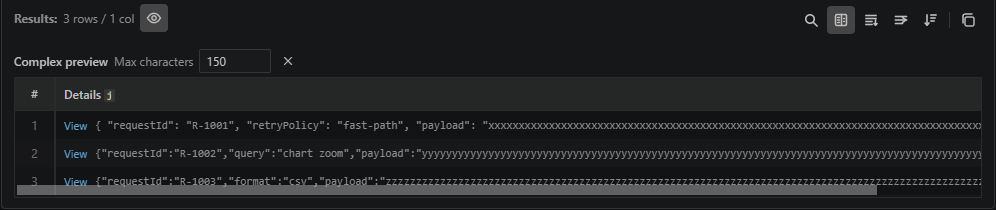
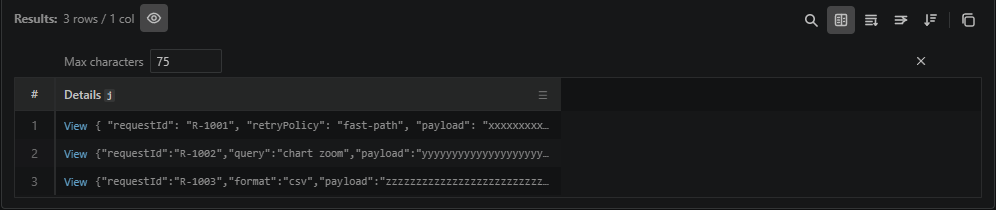
Add tutorial content for result column datatypes and multiple result sets
- Created a new image for result column datatypes and added a tutorial explaining the datatype glyphs in column headers.
- Added a tutorial on handling multiple result sets from a single query, including a result picker feature.
- Introduced a new KQLX fixture showcasing a multi-statement query with multiple results for testing purposes.

diff --git a/src/webview/components/kw-data-table.styles.ts b/src/webview/components/kw-data-table.styles.ts
@@ -10,7 +10,7 @@ export const styles = css`
 		.hbar{display:flex;align-items:center;justify-content:space-between;padding:4px 0 11px 0;font-size:12px;color:var(--vscode-descriptionForeground);background:transparent;flex-shrink:0;gap:8px;border-top:none;border-bottom:none;margin:0}
 		.hinfo{display:flex;align-items:center;gap:6px;flex-shrink:1;min-width:0;overflow:hidden;text-overflow:ellipsis;white-space:nowrap;position:relative;top:-2px}.hinfo-text{display:inline-block;min-width:0;overflow:hidden;text-overflow:ellipsis;white-space:nowrap}.et{opacity:.7}
 		.result-set-picker{min-width:96px;max-width:240px;height:24px;padding:1px 22px 1px 6px;border:1px solid var(--vscode-dropdown-border,var(--vscode-input-border));border-radius:2px;background:var(--vscode-dropdown-background,var(--vscode-input-background));color:var(--vscode-dropdown-foreground,var(--vscode-input-foreground));font:inherit;outline:none}.result-set-picker:focus{border-color:var(--vscode-focusBorder)}
-		.tb{display:inline-flex;gap:2px;align-items:center;justify-content:flex-end;flex:1 1 auto;min-width:0;max-width:100%;overflow-x:auto;overflow-y:hidden}
+		.tb{display:inline-flex;gap:2px;align-items:center;justify-content:flex-start;flex:1 1 auto;min-width:0;max-width:100%;overflow-x:auto;overflow-y:hidden}.tb>:first-child{margin-left:auto}
 		.sep{width:1px;height:16px;background:var(--vscode-input-border, rgba(128,128,128,0.3));margin:0 2px}
 		.tbtn{background:transparent;border:1px solid transparent;color:var(--vscode-foreground);cursor:pointer;padding:0;width:28px;height:28px;border-radius:4px;display:inline-flex;align-items:center;justify-content:center;line-height:0;outline:none;flex:0 0 28px}
 		.tbtn:hover{background:var(--vscode-list-hoverBackground)}.tbtn.act{color:var(--vscode-foreground);background:var(--vscode-toolbar-activeBackground, var(--vscode-actionBar-toggledBackground, rgba(128, 128, 128, 0.25)))}.tbtn svg{display:block}
@@ -19,7 +19,7 @@ export const styles = css`
 		.tbtn.tbtn-text{width:auto;min-width:auto;padding:0 8px;gap:4px;line-height:1.4}
 		.hidden-hint{font-size:11px;color:var(--vscode-disabledForeground,var(--vscode-descriptionForeground));font-style:italic;cursor:pointer;white-space:nowrap;overflow:hidden;text-overflow:ellipsis;min-width:0;flex-shrink:999}
 		.hidden-hint:hover{color:var(--vscode-foreground);text-decoration:underline}
-		.sbar.complex-preview-controls{justify-content:flex-start;min-width:0;background:transparent;padding-left:50px;padding-right:50px}.complex-preview-label{font-weight:600;color:var(--vscode-foreground);white-space:nowrap}.complex-preview-length-label{color:var(--vscode-descriptionForeground);white-space:nowrap}.complex-preview-length{width:72px;height:24px;padding:2px 6px;border:1px solid var(--vscode-input-border);border-radius:2px;background:var(--vscode-input-background);color:var(--vscode-input-foreground);font:inherit;outline:none}.complex-preview-length:focus{border-color:var(--vscode-focusBorder)}
+		.sbar.complex-preview-controls{justify-content:flex-start;min-width:0;background:transparent;padding-left:50px;padding-right:50px}.complex-preview-length-label{color:var(--vscode-descriptionForeground);white-space:nowrap}.complex-preview-length{width:72px;height:24px;padding:2px 6px;border:1px solid var(--vscode-input-border);border-radius:2px;background:var(--vscode-input-background);color:var(--vscode-input-foreground);font:inherit;outline:none}.complex-preview-length:focus{border-color:var(--vscode-focusBorder)}
 
 		/* Search bar */
 		.sbar{display:flex;align-items:center;gap:6px;padding:4px 0;font-size:12px;background:var(--vscode-editor-background);flex-shrink:0}
@@ -105,7 +105,7 @@ export const styles = css`
 		.compact th,.compact td{padding:4px 6px;font-size:11px;height:21px}.compact .hbar{padding:7px 0;font-size:11px}
 		.compact .obj-content{gap:6px}.compact .obj-preview{font-size:10px}
 		.compact .rn{font-size:10px;width:32px;min-width:32px;max-width:32px;padding:4px 2px}.compact .rn-h{width:32px;min-width:32px;max-width:32px;padding:4px 2px}
-		@container (max-width:420px){.hbar{align-items:stretch;flex-direction:column;gap:3px}.hinfo{width:100%;top:0}.tb{width:100%}.sbar.complex-preview-controls{padding:2px 0}.complex-preview-label{display:none}}
+		@container (max-width:420px){.hbar{align-items:stretch;flex-direction:column;gap:3px}.hinfo{width:100%;top:0}.tb{width:100%}.sbar.complex-preview-controls{padding:2px 0}}
 		@container (max-width:240px){.complex-preview-length-label{position:absolute;width:1px;height:1px;padding:0;margin:-1px;overflow:hidden;clip:rect(0,0,0,0);white-space:nowrap;border:0}.complex-preview-length{width:64px}}
 		@media (forced-colors:active){.type-glyph{border-color:ButtonText;background:ButtonFace;color:ButtonText}}
 

diff --git a/src/webview/components/kw-data-table.ts b/src/webview/components/kw-data-table.ts
@@ -811,8 +811,7 @@ export class KwDataTable extends LitElement {
 
 	private _computeColumnWidths(): number[] {
 		return this.columns.map((col, ci) => {
-			const isComplexPreviewColumn = this._complexPreviewEnabled
-				&& this.rows.some(row => Array.isArray(row) && isViewableObjectCell(row[ci]));
+			const isComplexPreviewColumn = this._isComplexPreviewColumn(ci);
 			const complexColumnMaxWidth = isComplexPreviewColumn ? this._complexPreviewColumnMaxWidth() : MAX_COL_WIDTH;
 			const maxWidth = isComplexPreviewColumn ? complexColumnMaxWidth : MAX_COL_WIDTH;
 			const headerLabel = isColumnFiltered(ci, this._columnFilters) ? `${col.name} (filtered)` : col.name;
@@ -831,14 +830,20 @@ export class KwDataTable extends LitElement {
 		});
 	}
 
+	private _isComplexPreviewColumn(columnIndex: number): boolean {
+		return this._complexPreviewEnabled
+			&& this.rows.some(row => Array.isArray(row) && isViewableObjectCell(row[columnIndex]));
+	}
+
 	private _complexPreviewTextMaxWidth(): number {
 		return Math.max(0, this._complexPreviewColumnMaxWidth() - OBJECT_CELL_CHROME_WIDTH_PX);
 	}
 
 	private _complexPreviewColumnMaxWidth(): number {
+		const previewFontSize = (this.options.compact ?? false) ? 10 : 11;
 		return Math.max(
 			MIN_COL_WIDTH,
-			Math.ceil(this._measureTextWidth('M'.repeat(this._complexCellMaxCharacters)) + OBJECT_CELL_CHROME_WIDTH_PX),
+			Math.ceil(this._measureTextWidth('M'.repeat(this._complexCellMaxCharacters), previewFontSize) + OBJECT_CELL_CHROME_WIDTH_PX),
 		);
 	}
 
@@ -876,7 +881,7 @@ export class KwDataTable extends LitElement {
 		return this._measureTextWidth(text) + 18;
 	}
 
-	private _measureTextWidth(text: string): number {
+	private _measureTextWidth(text: string, fontSize = (this.options.compact ?? false) ? 11 : 12): number {
 		const canvas = this._measureCanvas ?? (this._measureCanvas = document.createElement('canvas'));
 		const ctx = canvas.getContext('2d');
 		const measuredText = text.slice(0, 500);
@@ -884,7 +889,6 @@ export class KwDataTable extends LitElement {
 		const cs = getComputedStyle(this);
 		const fontFamilyVar = cs.getPropertyValue('--vscode-editor-font-family').trim();
 		const fontFamily = fontFamilyVar || cs.fontFamily || 'Segoe WPC, Segoe UI, sans-serif';
-		const fontSize = (this.options.compact ?? false) ? 11 : 12;
 		ctx.font = `400 ${fontSize}px ${fontFamily}`;
 		return ctx.measureText(measuredText).width;
 	}
@@ -909,22 +913,27 @@ export class KwDataTable extends LitElement {
 			return { widths: base, tableWidth: ROW_NUMBER_WIDTH + baseTotal };
 		}
 
-		// Fit mode: everything can fit. Keep fit widths and let one column absorb remaining space.
+		// Fit mode: everything can fit. Let one uncapped column absorb remaining space.
 		const widths = [...base];
 		const extra = available - baseTotal;
+		let filledViewport = false;
 		if (extra > 0) {
-			let flexIdx = 0;
-			let maxW = widths[0] ?? 0;
-			for (let i = 1; i < widths.length; i++) {
-				if (widths[i] >= maxW) {
+			let flexIdx = -1;
+			let maxW = -1;
+			for (let i = 0; i < widths.length; i++) {
+				if (!this._isComplexPreviewColumn(i) && widths[i] >= maxW) {
 					maxW = widths[i];
 					flexIdx = i;
 				}
 			}
-			const scrollbarSlack = 2;
-			widths[flexIdx] += Math.max(0, extra - scrollbarSlack);
+			if (flexIdx >= 0) {
+				const scrollbarSlack = 2;
+				widths[flexIdx] += Math.max(0, extra - scrollbarSlack);
+				filledViewport = true;
+			}
 		}
-		const tableWidth = Math.max(ROW_NUMBER_WIDTH + widths.reduce((sum, w) => sum + w, 0), viewport - 1);
+		const contentWidth = ROW_NUMBER_WIDTH + widths.reduce((sum, w) => sum + w, 0);
+		const tableWidth = filledViewport ? Math.max(contentWidth, viewport - 1) : contentWidth;
 		return { widths, tableWidth };
 	}
 
@@ -1165,7 +1174,6 @@ export class KwDataTable extends LitElement {
 
 	private _renderComplexPreviewControls(): TemplateResult {
 		return html`<div class="sbar complex-preview-controls" id="complex-preview-controls" data-testid="complex-preview-controls">
-			<span class="complex-preview-label">Complex preview</span>
 			<label class="complex-preview-length-label" for="complex-preview-length">Max characters</label>
 			<input id="complex-preview-length" class="complex-preview-length" data-testid="complex-preview-length"
 				aria-label="Maximum complex column characters"

diff --git a/tests/webview/kw-data-table-visibility.test.ts b/tests/webview/kw-data-table-visibility.test.ts
@@ -180,6 +180,9 @@ describe('kw-data-table visibility lifecycle', () => {
 		expect(toggle).toBeTruthy();
 		expect(toggle?.querySelector('svg[data-icon="preview-pane"] rect')).toBeTruthy();
 		expect(toggle?.querySelector('circle')).toBeNull();
+		const toolbar = table.shadowRoot?.querySelector('.tb') as Element;
+		expect(getComputedStyle(toolbar).justifyContent).toBe('flex-start');
+		expect(getComputedStyle(toolbar.firstElementChild as Element).marginLeft).toBe('auto');
 		expect(toggle?.getAttribute('aria-pressed')).toBe('false');
 		expect(table.shadowRoot?.querySelector('[data-testid="complex-preview-controls"]')).toBeNull();
 		expect(table.shadowRoot?.querySelectorAll('.obj-link')).toHaveLength(1);
@@ -240,6 +243,8 @@ describe('kw-data-table visibility lifecycle', () => {
 		expect(getComputedStyle(controls).backgroundColor).toBe('transparent');
 		expect(getComputedStyle(controls).paddingLeft).toBe('50px');
 		expect(getComputedStyle(controls).paddingRight).toBe('50px');
+		expect(controls.querySelector('.complex-preview-label')).toBeNull();
+		expect(controls.textContent?.trim()).toBe('Max characters');
 		const close = table.shadowRoot?.querySelector('[data-testid="complex-preview-close"]') as Element;
 		expect(getComputedStyle(close).marginLeft).toBe('auto');
 		const input = table.shadowRoot?.querySelector<HTMLInputElement>('[data-testid="complex-preview-length"]')!;
@@ -269,6 +274,8 @@ describe('kw-data-table visibility lifecycle', () => {
 		const defaultComplexWidth = (table as any)._columnWidths[0];
 		expect(defaultComplexWidth).toBe(577);
 		expect((table as any)._columnWidths[0]).toBeGreaterThan(widthBefore);
+		(table as any)._vScrollCtrl.viewportW = 1000;
+		expect((table as any)._layoutColumns().widths[0]).toBe(defaultComplexWidth);
 		const input = table.shadowRoot?.querySelector<HTMLInputElement>('[data-testid="complex-preview-length"]')!;
 		input.value = '150';
 		input.dispatchEvent(new Event('change', { bubbles: true, composed: true }));

diff --git a/tests/webview/host/tutorialCatalog.test.ts b/tests/webview/host/tutorialCatalog.test.ts
@@ -97,10 +97,14 @@ describe('tutorial catalog validation', () => {
 		expect(byId.get('results-search-json')?.minExtensionVersion).toBe('5.1.0');
 		expect(byId.get('results-complex-preview')?.minExtensionVersion).toBe('5.1.0');
 		expect(byId.get('results-column-tools')?.minExtensionVersion).toBe('5.1.0');
+		expect(byId.get('results-multiple-result-sets')?.minExtensionVersion).toBe('5.1.0');
+		expect(byId.get('results-column-datatypes')?.minExtensionVersion).toBe('5.1.0');
 		expect(byId.get('results-search-json')?.updateToken).toBe('results-search-json-2026-08-19');
-		expect(byId.get('results-complex-preview')?.updateToken).toBe('results-complex-preview-2026-08-20');
-		expect(byId.get('results-column-tools')?.updateToken).toBe('results-column-tools-2026-08-19');
-		expect(actual.generatedAt).toBe('2026-08-20T00:00:00.000Z');
+		expect(byId.get('results-complex-preview')?.updateToken).toBe('results-complex-preview-2026-08-21');
+		expect(byId.get('results-column-tools')?.updateToken).toBe('results-column-tools-2026-08-21');
+		expect(byId.get('results-multiple-result-sets')?.updateToken).toBe('results-multiple-result-sets-2026-08-21');
+		expect(byId.get('results-column-datatypes')?.updateToken).toBe('results-column-datatypes-2026-08-21');
+		expect(actual.generatedAt).toBe('2026-08-21T00:00:00.000Z');
 	});
 });
 

diff --git a/media/tutorials/content/results-complex-preview.md b/media/tutorials/content/results-complex-preview.md
@@ -1,9 +1,7 @@
 # Complex values can show configurable inline previews
 
-Use **Preview complex values** in the results toolbar when you want a quick look inside JSON objects and dynamic arrays without opening each one.
+Turn on **Preview complex values** in the results toolbar for a quick look inside JSON objects and dynamic arrays without opening each one.
 
 ![Configurable inline previews beside complex values](images/tip-results-complex-preview.png)
 
-Set **Max characters** to expand or contract the table's existing complex-column width cap. **View** and the inline cell retain the same complete value; the table's existing ellipsis handles what fits.
-
-Table search highlights matching text directly in an enabled preview.
+**Max characters** widens or narrows the complex column, **View** still opens the same complete value, and table search highlights matches directly inside the preview.

diff --git a/media/tutorials/content/results-column-tools.md b/media/tutorials/content/results-column-tools.md
@@ -1,7 +1,7 @@
 # Column headers have analysis tools
 
-Typed result columns show a compact datatype glyph beside the header name; hover it to see the full declared type. Right-click the header to sort, filter, copy values, show unique values, or count unique values by another column.
+Right-click a result column header, or use the ☰ button beside its name, to sort, filter, copy values, show unique values, or count unique values by another column.
 
 ![Column header menu with analysis actions](images/tip-results-column-menu.png)
 
-This is perfect for quick sanity checks: confirm the schema, find the biggest value, inspect a dimension's spread, or narrow the table before changing the query.
+This is perfect for quick sanity checks: find the biggest value, inspect a dimension's spread, or narrow the table before changing the query.

diff --git a/media/tutorials/content/results-multiple-result-sets.md b/media/tutorials/content/results-multiple-result-sets.md
@@ -1,0 +1,7 @@
+# One query section can keep every result of a multi-statement query
+
+Pick **Run All** from the Run button menu and a query with several tabular statements keeps all of them. A result picker appears beside the row count so you can move between **Result #1**, **Result #2**, and the rest without rerunning anything.
+
+![Result picker showing Result #2 of a three-statement query](images/tip-results-multiple-result-sets.png)
+
+The selected result is what charts, transformations, and saved files bind to, and it survives closing and reopening the notebook.

diff --git a/media/tutorials/content/results-column-datatypes.md b/media/tutorials/content/results-column-datatypes.md
@@ -1,0 +1,7 @@
+# Every result column tells you its datatype
+
+Each column header carries a small glyph after the name: `s` for string, `d` for datetime, `l` for long, `j` for dynamic, and so on. Hover it and the tooltip spells out the declared type, such as **Data type: dynamic**.
+
+![Result column headers with their datatype glyphs highlighted](images/tip-results-column-datatypes.png)
+
+It is the fastest way to tell a real number from a numeric-looking string before you sort, filter, or chart the column.

diff --git a/CHANGELOG.md b/CHANGELOG.md
@@ -3,7 +3,7 @@
 All notable changes to the "vscode-kusto-workbench" extension will be documented in this file.
 Check [Keep a Changelog](http://keepachangelog.com/) for recommendations on how to structure this file.
 
-## [5.1.0] - 2026.08.20
+## [5.1.0] - 2026.08.21
 
 * Support for multiple results within a single query section (Run All).
 * Improvements to the 'Compare queries' and 'Optimize query' UX.
